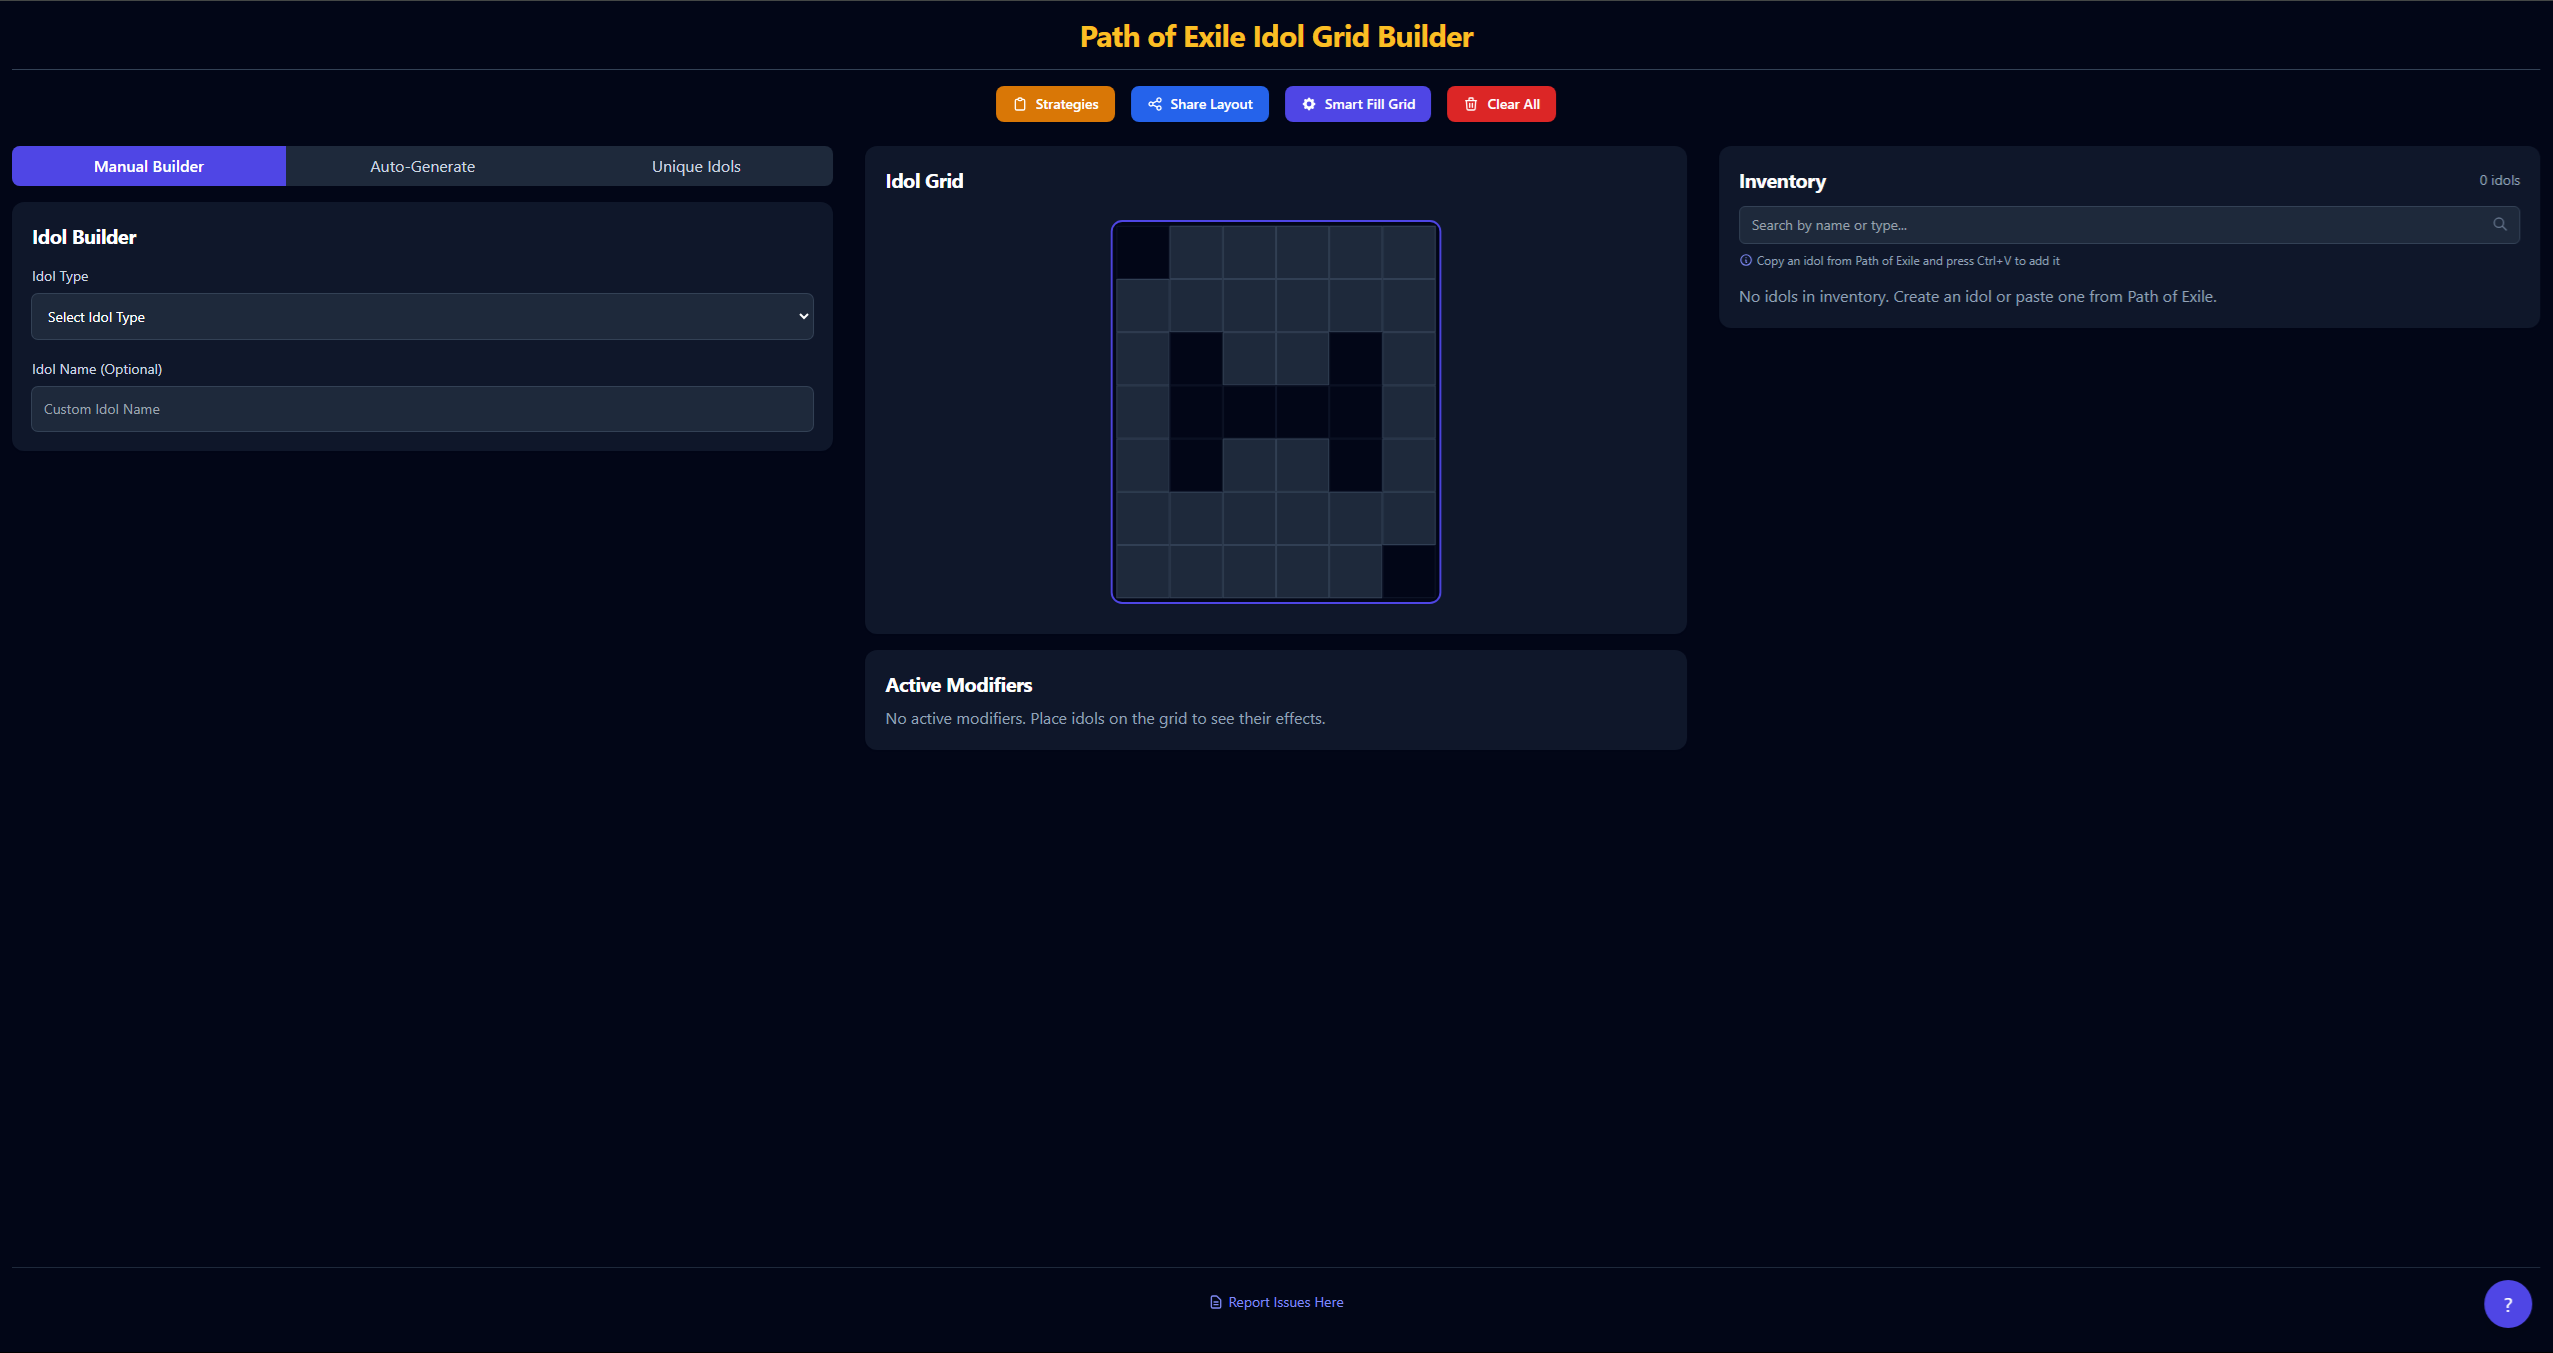
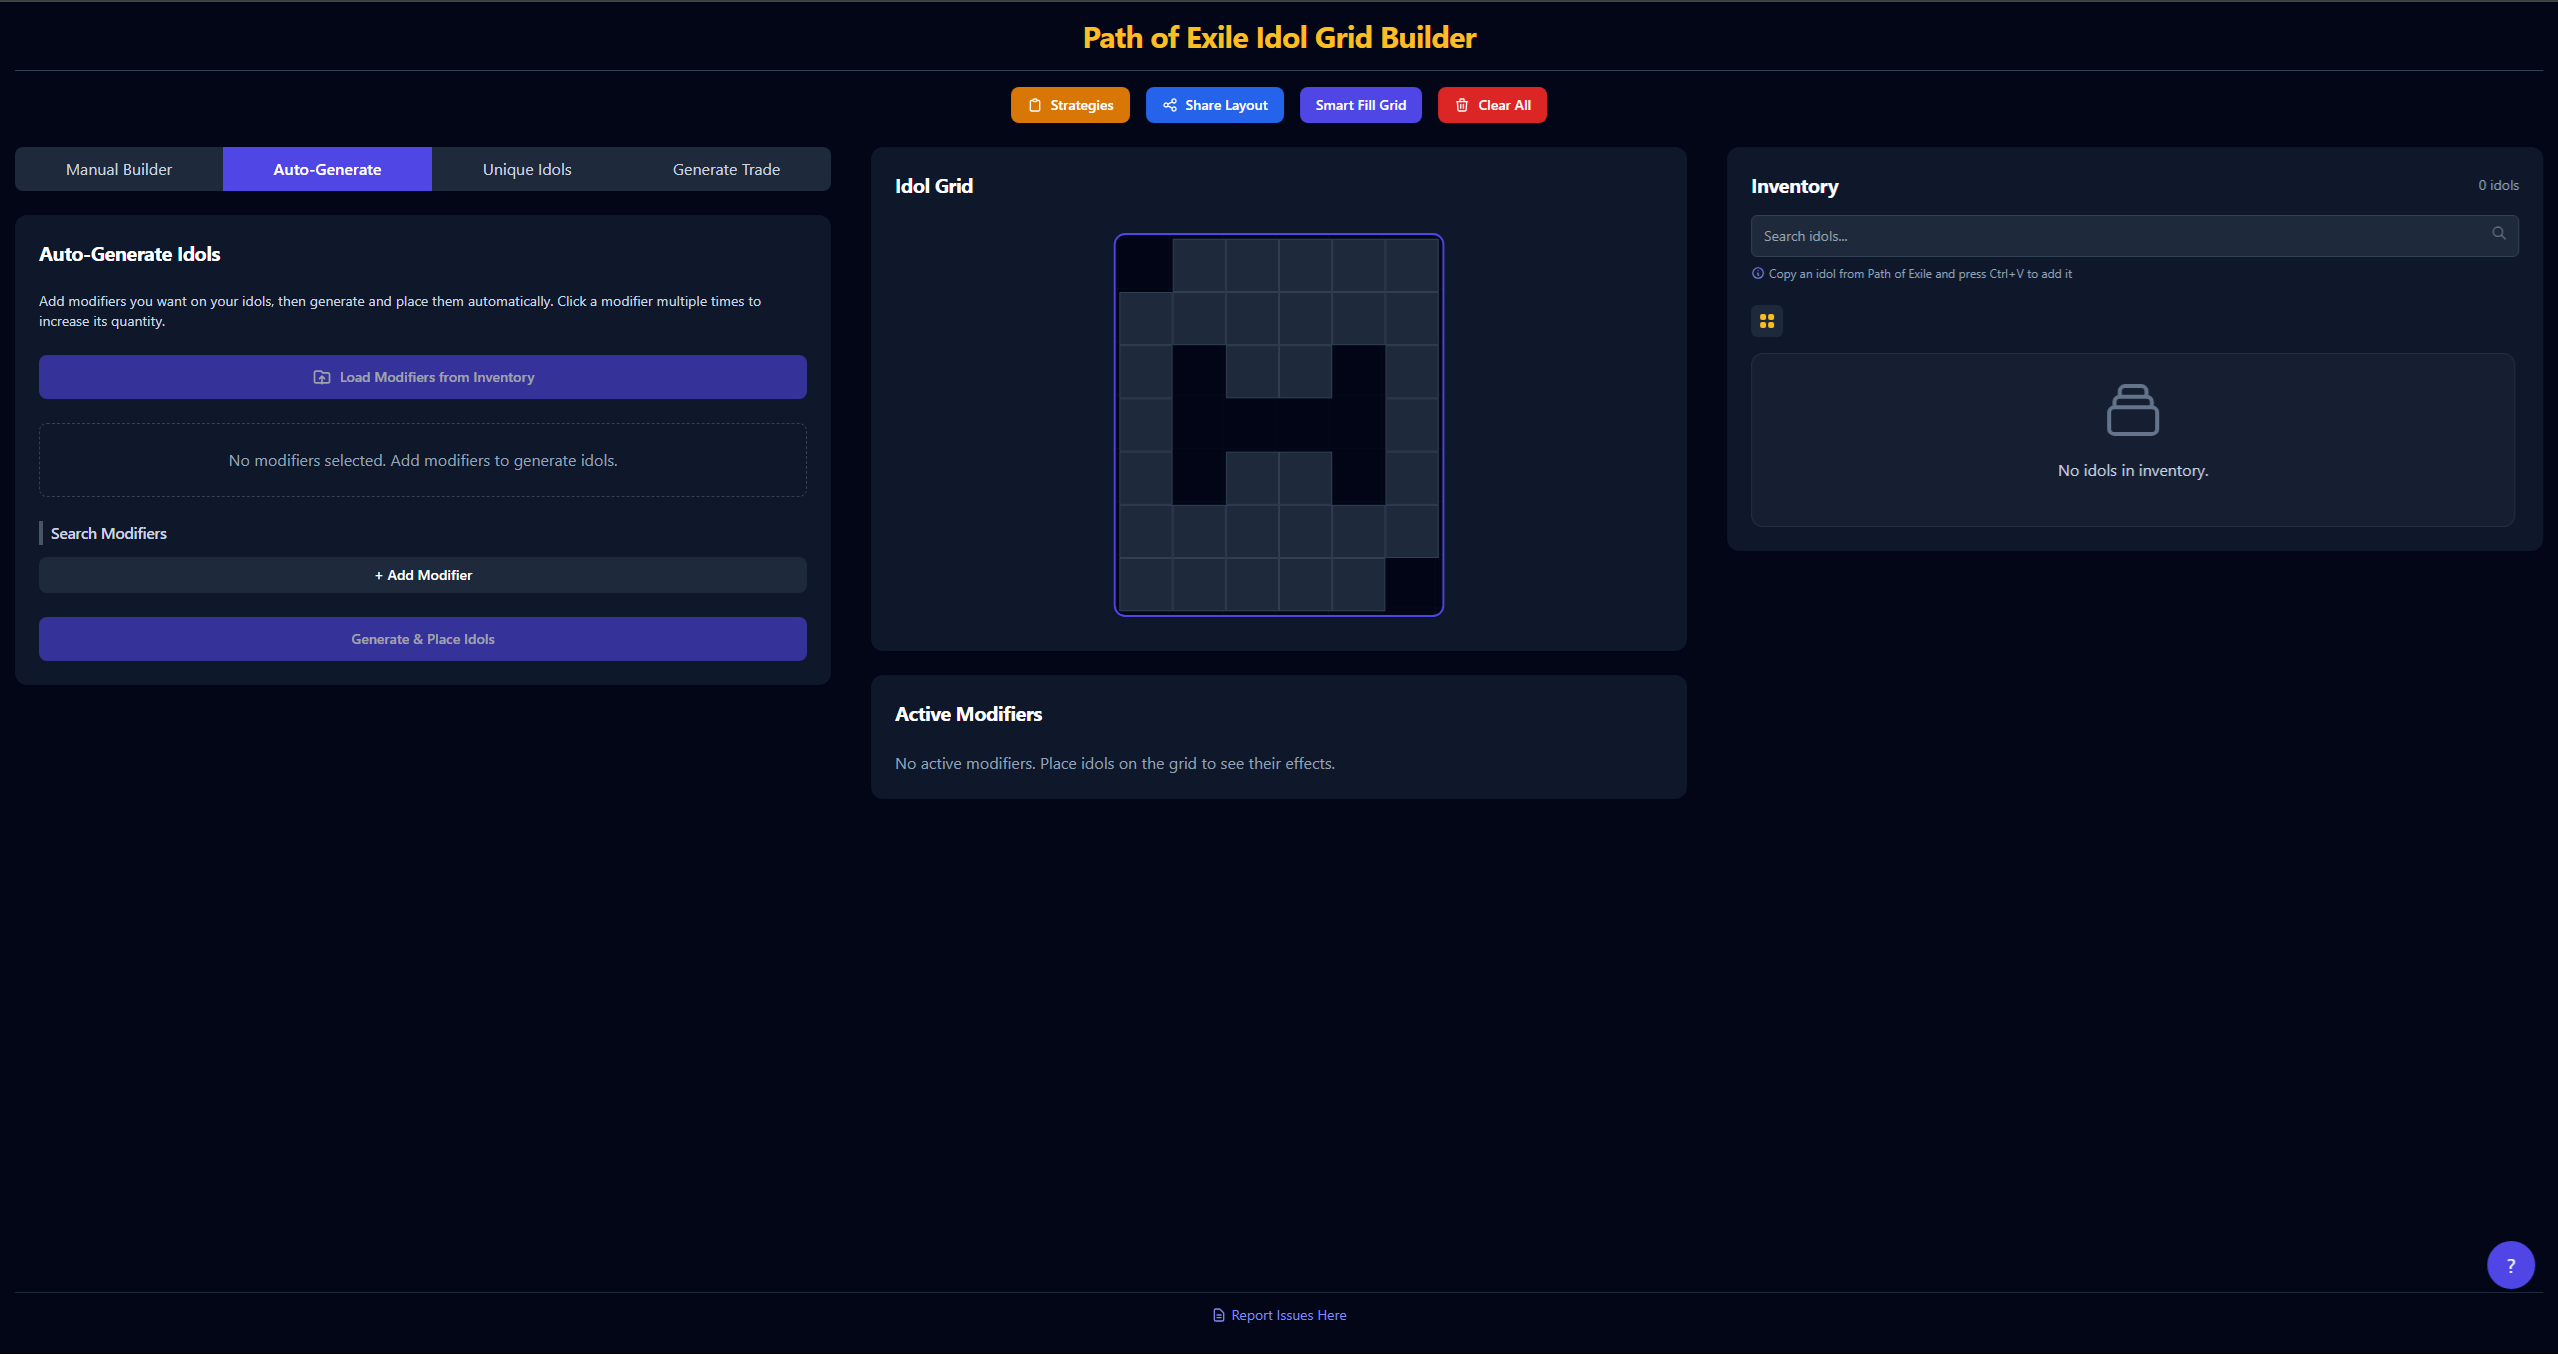
Update readme, index, screenshot

diff --git a/public/index.html b/public/index.html
@@ -6,15 +6,46 @@
     <meta name="viewport" content="width=device-width, initial-scale=1" />
     <meta name="theme-color" content="#282c34" />
     <meta
-    name="description"
-    content="Plan and optimize your Path of Exile Atlas idol grid layouts with this drag-and-drop tool. Create custom idol builds and share your layouts."
+      name="description"
+      content="Plan and optimize your Path of Exile idol grid layouts with this drag-and-drop tool. Create custom idol builds and share your layouts."
     />
-    <meta name="keywords" content="Path of Exile, PoE, Idol Grid, Optimization, Build Planner" />
-    <meta property="og:title" content="Path of Exile Idol Grid Builder">
-    <meta property="og:description" content="Plan and optimize your Path of Exile Atlas idol layouts">
-    <meta property="og:type" content="website">
+    <meta name="keywords" content="Path of Exile, PoE, Idol Grid, Atlas Idols, Optimization, Build Planner, PoE Planner, Atlas Strategy, Idol Layout, Idol Calculator, Idol Optimizer, Idol Builder, Expedition Idols, Trade, Path of Exile Tools" />
+    <meta name="author" content="Jlepoff" />
+    <meta name="robots" content="index, follow" />
+    
+    <!-- Open Graph / Social Media -->
+    <meta property="og:title" content="Path of Exile Idol Grid Builder" />
+    <meta property="og:description" content="Plan and optimize your Path of Exile idol layouts" />
+    <meta property="og:type" content="website" />
+    <meta property="og:url" content="https://jlepoff.github.io/poe-idol-grid-builder/" />
+    <meta property="og:image" content="%PUBLIC_URL%/screenshot.png" />
+    
+    <!-- Twitter Card -->
+    <meta name="twitter:card" content="summary_large_image" />
+    
+    <!-- Canonical URL -->
+    <link rel="canonical" href="https://jlepoff.github.io/poe-idol-grid-builder/" />
+    
     <link rel="apple-touch-icon" href="%PUBLIC_URL%/logo192.png" />
     <link rel="manifest" href="%PUBLIC_URL%/manifest.json" />
+    
+    <!-- Structured Data -->
+    <script type="application/ld+json">
+    {
+      "@context": "https://schema.org",
+      "@type": "WebApplication",
+      "name": "Path of Exile Idol Grid Builder",
+      "description": "Plan and optimize your Path of Exile Atlas idol grid layouts with this drag-and-drop tool.",
+      "applicationCategory": "GameApplication",
+      "operatingSystem": "Any",
+      "offers": {
+        "@type": "Offer",
+        "price": "0",
+        "priceCurrency": "USD"
+      },
+      "url": "https://jlepoff.github.io/poe-idol-grid-builder/"
+    }
+    </script>
     
     <!-- GitHub Pages routing fix -->
     <script type="text/javascript">

diff --git a/README.md b/README.md
@@ -7,8 +7,8 @@ A powerful web application for planning and optimizing your Idol layouts in Path
 ## Table of Contents
 - [Features](#features)
 - [Demo](#demo)
-- [Installation](#installation)
 - [Usage Guide](#usage-guide)
+- [Installation for Developers](#installation-for-developers)
 - [Development](#development)
 - [Deployment](#deployment)
 - [License](#license)
@@ -26,13 +26,66 @@ A powerful web application for planning and optimizing your Idol layouts in Path
 - **Import from Game**: Paste idols directly from Path of Exile (Ctrl+V)
 - **Layout Sharing**: Share your grid layouts with others via URL
 - **Persistent Storage**: Automatically saves your layouts between sessions
-- **Mobile Friendly**: Responsive design works on all devices
+- **Community Strategies**: Browse and load popular farming strategies
+- **Unique Idols**: Browse and add unique idols with special modifiers
+- **Trade Generator**: Create trade searches for specific modifier combinations
+- **Export to Text**: Share your idol configuration in text format
 
 ## Demo
 
 Check out the live demo: [PoE Idol Grid Builder](https://jlepoff.github.io/poe-idol-grid-builder/)
 
-## Installation
+## Usage Guide
+
+### Building Idols
+1. Select an idol type (Minor, Kamasan, Totemic, Noble, Conqueror, or Burial)
+2. Search for and add up to 2 prefixes and 2 suffixes
+3. Click "Create Idol" to add it to your inventory
+
+### Grid Placement
+- Drag idols from your inventory to place them on the grid
+- Primary cells show the first letter of the idol type (or "U" for uniques)
+- Right-click to remove idols from the grid or inventory
+
+### Layout Optimization
+- Click "Smart Fill Grid" to automatically arrange your idols efficiently
+- The algorithm tries to place as many idols as possible based on their modifiers
+
+### Auto-Generate Idols
+1. Go to the "Auto" tab
+2. Add desired modifiers to your list (click multiple times for higher quantities)
+3. Click "Generate & Place Idols" to create and place optimal idols with those modifiers
+4. Optionally "Load Modifiers from Inventory" to extract mods from existing idols
+
+### Community Strategies
+1. Click "Strategies" button to browse community-created farming strategies
+2. Select a strategy to load its idol configuration
+3. The strategy's idols and layout will be automatically imported
+
+### Unique Idols
+1. Go to the "Unique Idols" tab to browse available unique idols
+2. Click "Add" to add a unique idol to your inventory
+3. Click "Trade" to search for the unique idol on the trade site
+
+### Trade Generator
+1. Go to the "Generate Trade" tab
+2. Select an idol type and add modifiers you want on your idol
+3. Click "Trade for Modifiers" to search for matching idols on the trade site
+
+### Modifier Analysis
+- View all active modifiers and their stacked effects in the "Active Modifiers" section
+- Use "Export to Text" to share your configuration with others
+
+### Keyboard Shortcuts
+- **Ctrl+V**: Paste an idol from Path of Exile
+- **?**: Show keyboard shortcuts
+- **Esc**: Close dialog windows
+
+### Sharing Layouts
+- Click the "Share Layout" button to copy a URL
+- Anyone with the URL can load your exact layout
+
+## Installation for Developers
 
 ### Prerequisites
 - Node.js (v14+)
@@ -41,7 +94,7 @@ Check out the live demo: [PoE Idol Grid Builder](https://jlepoff.github.io/poe-i
 ### Setup
 1. Clone the repository:
    ```bash
-   git clone https://github.com/jlepoff/poe-idol-grid-builder.git
+   git clone https://github.com/Jlepoff/poe-idol-grid-builder.git
    cd poe-idol-grid-builder
    ```
 
@@ -57,60 +110,44 @@ Check out the live demo: [PoE Idol Grid Builder](https://jlepoff.github.io/poe-i
 
 4. Open [http://localhost:3000](http://localhost:3000) in your browser.
 
-## Usage Guide
-
-### Building Idols
-1. Select an idol type (Minor, Kamasan, Totemic, Noble, Conqueror, or Burial)
-2. Search for and add up to 2 prefixes and 2 suffixes
-3. Click "Create Idol" to add it to your inventory
-
-### Grid Placement
-- Drag idols from your inventory to place them on the grid
-- Primary cells show the first letter of the idol type
-- Right-click to remove idols from the grid or inventory
-
-### Layout Optimization
-- Click "Smart Fill Grid" to automatically arrange your idols efficiently
-- The algorithm tries to place as many idols as possible based on their modifiers
-
-### Auto-Generate Idols
-1. Go to the "Auto" tab
-2. Add desired modifiers to your list (click multiple times for higher quantities)
-3. Click "Generate & Place Idols" to create and place optimal idols with those modifiers
-
-### Modifier Analysis
-- View all active modifiers and their stacked effects
-- Modifiers are grouped by name for easier reading
-
-### Keyboard Shortcuts
-- **Ctrl+V**: Paste an idol from Path of Exile
-- **?**: Show keyboard shortcuts
-- **Esc**: Close dialog windows
-
-### Sharing Layouts
-- Click the "Share Layout" button to copy a URL
-- Anyone with the URL can load your exact layout
-
 ## Development
 
 ### Project Structure
 ```
 poe-idol-grid-builder/
 ├── public/
-│   ├── data/               # JSON data files for idol modifiers
+│   ├── data/               # JSON data files for idol modifiers and strategies
 │   ├── index.html          # HTML entry point
 │   └── manifest.json       # Web app manifest
 ├── src/
+│   ├── api/                # API and data loading functions
 │   ├── components/         # React components
+│   │   ├── builder/        # Idol builder components
+│   │   ├── common/         # Reusable UI components
+│   │   ├── grid/           # Grid and optimization components
+│   │   ├── inventory/      # Inventory management components
+│   │   ├── modifiers/      # Modifier search and display components
+│   │   ├── strategies/     # Community strategies components
+│   │   └── trade/          # Trade integration components
+│   ├── context/            # React context providers
+│   ├── hooks/              # Custom React hooks
 │   ├── utils/              # Utility functions
+│   │   ├── grid/           # Grid manipulation utilities
+│   │   ├── idol/           # Idol generation utilities
+│   │   ├── modifiers/      # Modifier processing utilities
+│   │   ├── storage/        # Local storage and sharing utilities
+│   │   └── trade/          # Trade site integration utilities
 │   ├── App.js              # Main application component
-│   └── index.js            # JavaScript entry point
+│   ├── App.css             # Application styles
+│   ├── index.js            # JavaScript entry point
+│   └── index.css           # Global styles and Tailwind configuration
+├── postcss.config.js       # PostCSS configuration
+├── tailwind.config.js      # Tailwind CSS configuration
 └── package.json            # Project dependencies and scripts
 ```
 
 ### Available Scripts
 - `npm start`: Starts the development server
-- `npm test`: Launches the test runner
 - `npm run build`: Builds the app for production
 - `npm run deploy`: Deploys the app to GitHub Pages
 
@@ -144,34 +181,12 @@ The app can be deployed to any static site hosting service:
 
 ## License
 
-This project is licensed under the MIT License - see the [LICENSE](LICENSE) file for details.
-
-```
-MIT License
-
-Copyright (c) 2025 jlepoff
-
-Permission is hereby granted, free of charge, to any person obtaining a copy
-of this software and associated documentation files (the "Software"), to deal
-in the Software without restriction, including without limitation the rights
-to use, copy, modify, merge, publish, distribute, sublicense, and/or sell
-copies of the Software, and to permit persons to whom the Software is
-furnished to do so, subject to the following conditions:
-
-The above copyright notice and this permission notice shall be included in all
-copies or substantial portions of the Software.
-
-THE SOFTWARE IS PROVIDED "AS IS", WITHOUT WARRANTY OF ANY KIND, EXPRESS OR
-IMPLIED, INCLUDING BUT NOT LIMITED TO THE WARRANTIES OF MERCHANTABILITY,
-FITNESS FOR A PARTICULAR PURPOSE AND NONINFRINGEMENT. IN NO EVENT SHALL THE
-AUTHORS OR COPYRIGHT HOLDERS BE LIABLE FOR ANY CLAIM, DAMAGES OR OTHER
-LIABILITY, WHETHER IN AN ACTION OF CONTRACT, TORT OR OTHERWISE, ARISING FROM,
-OUT OF OR IN CONNECTION WITH THE SOFTWARE OR THE USE OR OTHER DEALINGS IN THE
-SOFTWARE.
-```
+This project is licensed under the MIT License.
 
 ## Credits
 
-- Idol data from [meatwallace/idol-planner](https://github.com/meatwallace/idol-planner)
-- Code assistance provided by [Claude 3.7 Sonnet](https://www.anthropic.com/claude)
+- Initial idol data from [meatwallace/idol-planner](https://github.com/meatwallace/idol-planner)
+- Thanks to all contributors and community members who have reported bugs and suggested improvements
+- Built with [React](https://reactjs.org/), [Tailwind CSS](https://tailwindcss.com/), and [React DnD](https://react-dnd.github.io/react-dnd/)
+
 ---
